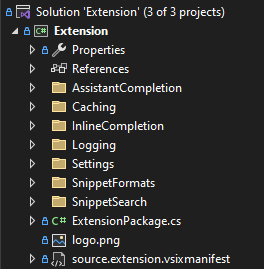
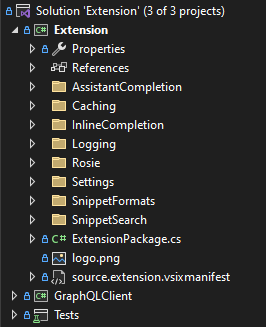
Add developer documentation for the rules caching, text tagging and lightbulb actions. Update project structure docs.

Changed region(s): [[0.0, 0.0, 0.8788, 1.0], [0.0303, 0.9517, 0.0606, 0.9814], [0.0303, 0.8922, 0.0606, 0.9219]]

diff --git a/DEVELOPMENT.md b/DEVELOPMENT.md
@@ -56,6 +56,7 @@ Visual Studio Extensions still need to target full .NET 4.8 Framework as Visual 
 * `Caching` - everything related to Snippet caching
 * `InlineCompletion` - support for inline snippet completion
 * `Logging` - Helper classes for Rollbar logging
+* `Rosie` - Static code analysis and its lightbulb actions
 * `Settings` - Handling current VS setting including the Codiga settings dialog
 * `SnippetFormats` - The different snippet models and the parsing
 * `SnippetSearch` - The menu entry and the tool window for the snippet search
@@ -99,7 +100,7 @@ During the expansion session, we use [`IOleCommandTarget`](https://learn.microso
 For a detailed explanation on the async completion API, there is a great GitHub issue at [microsoft/vs-editor-api#Async Completion API discussion](https://github.com/microsoft/vs-editor-api/issues/9).
 
 
- ## Inline completion
+## Inline completion
 The inline completion is triggered by starting a line comment on a new line.
 ### Triggering
 To be able to trigger the inline completion we make use of another `IOleCommandTarget` in [`InlineCompletion/InlineCompletionClient.cs`](src/Extension/InlineCompletion/InlineCompletionClient.cs). Where we check if a session should be started based on the typed text of the current line.
@@ -124,6 +125,106 @@ To be able to bring up the tool window via the menu, two parts are needed:
 1. Define the menu item command in a [VS command table](https://learn.microsoft.com/en-us/visualstudio/extensibility/internals/visual-studio-command-table-dot-vsct-files?view=vs-2022) ([`SnippetSearchPackage.vsct`](src/Extension/SnippetSearch/SnippetSearchPackage.vsct))
 2. Implement the command that gets fired when clicking the menu item (done in [`SearchWindowMenuCommand.cs`](/src/Extension/SnippetSearch/SearchWindowMenuCommand.cs))
 
+## Rosie code analysis
+
+Rosie is the static code analysis tool and service of Codiga. Its implementation requirements are available
+at [Implementing an IDE plugin for analyzing custom rules](https://doc.codiga.io/docs/rosie/ide-specification/).
+
+### Rules cache
+
+In order to perform code analysis, users must have a `codiga.yml` file in their Solution's root directory,
+with at least one valid ruleset name. If there is no ruleset name, or no valid ruleset name defined, then code analysis
+will not be performed.
+
+[`CodigaConfigFileUtil`]() is responsible for finding this config file in the Solution root, and for parsing this config file into a
+[`CodigaCodeAnalysisConfig`]() containing the list of ruleset names.
+
+Here comes in [`RosieRulesCache`]() which provides a periodic background thread for polling the contents of this config file,
+and looking for rule changes on Codiga Hub, as well as the caches the received rules per language.
+
+The rules are retrieved via [`RosieClient`](), and this is where `RosieRulesCache` is initialized before sending the first
+request to the Rosie server. This way, it is initialized only when code analysis is actually needed.
+
+For response/request (de)serialization, you can find the model classes in the `Extension.Rosie.Model` namespace.
+
+### Tagging
+
+#### Tagging in general in Visual Studio extensions
+
+Tagging and lightbulb related classes are in the `Extension.Rosie.Annotation` namespace.
+
+Tagging text in Visual Studio extensions means that you can associate information and data to specified spans/ranges of text in an editor.
+This information can be user-visible or not, can hold arbitrary information or can provide error highlighting.
+
+To get a proper understanding of tagging, it is necessary to know a bit about the following editor related classes:
+
+| Class                                                                                                                              | Functionality                                                                                                                                                              |
+|------------------------------------------------------------------------------------------------------------------------------------|----------------------------------------------------------------------------------------------------------------------------------------------------------------------------|
+| [`ITextView`](https://learn.microsoft.com/en-us/dotnet/api/microsoft.visualstudio.text.editor.itextview?view=visualstudiosdk-2022) | It is a higher level view of a document being edited. This view may be associated with the editor itself, small code peek windows, or color highlighting on the scrollbar. |
+| [`ITextBuffer`](https://learn.microsoft.com/en-us/dotnet/api/microsoft.visualstudio.text.itextbuffer?view=visualstudiosdk-2022)    | A lower level view of a document via which you can also perform certain types of edits on the document. An `ITextView` instance holds a reference to an `ITextBuffer`.     |
+
+The tagging functionality is provided by the VS platform via the following set of classes:
+
+| Class                 | Functionality                                                                                                                                                                                                                                                           |
+|-----------------------|-------------------------------------------------------------------------------------------------------------------------------------------------------------------------------------------------------------------------------------------------------------------------|
+| `ITag`                | A type of marker to provide arbitrary information for a span of text.                                                                                                                                                                                                   |
+| `IErrorTag`           | An implementation of `ITag` that provides so-called squiggles for a span of text.<br/>You can configure the type of the squiggle, which can be a custom type defined by the extension developer, and the tooltip to show on mouse-hover of the associated span of text. | 
+| `ITagger`             | Provides the logic based on which `ITag` markers are created and associated with a span of text.                                                                                                                                                                        |
+| `IViewTaggerProvider` | Provides `ITagger` instances for an `ITextView`-`ITextBuffer` pair.                                                                                                                                                                                                     |
+| `ITagAggregator`      | Aggregates the list of tags of the specified `ITag` type from an editor.                                                                                                                                                                                                |
+
+**External resources:**
+- MSDN: [Highlighting text](https://learn.microsoft.com/en-us/visualstudio/extensibility/walkthrough-highlighting-text?view=vs-2022&tabs=csharp)
+- Michael's Coding Spot: [Highlighting code in Editor](https://michaelscodingspot.com/visual-studio-2017-extension-development-tutorial-highlight-code-in-editor/)
+- Stackoverflow: [VSIX: IErrorTag tooltip content not displaying](https://stackoverflow.com/questions/64458987/vsix-ierrortag-tooltip-content-not-displaying/64497016#64497016)
+- MSDN forum: [How to get the ErrorTag ToolTipContent to work...](https://social.msdn.microsoft.com/Forums/sqlserver/en-US/157b3f6d-eadd-4693-b8f2-458f837b4394/mef-errortag-how-to-get-the-errortag-tooltipcontent-to-work-in-vs2010-extensibility-component?forum=vsx)
+
+#### Tagging in the Codiga extension
+
+The tagging logic is separated into two branches of classes to properly be able to provide Rosie violation and error squiggles related
+information. Their functionality is detailed in their code documentation.
+
+| Classification        | Rosie violations                                              | Squiggles                                                                       |
+|-----------------------|---------------------------------------------------------------|---------------------------------------------------------------------------------|
+|                       | Stores information about the violation returned from Rosie.   | Stores the color definition and tooltip of the violation to render it to users. |
+| `ITag`/`IErrorTag`    | [`RosieViolationTag`]()                                       | [`RosieViolationSquiggleTag`]()                                                 |
+| `ITagger`             | [`RosieViolationTagger`]()                                    | [`RosieViolationSquiggleTagger`]()                                              |
+| `IViewTaggerProvider` | [`RosieViolationTaggerProvider`]()                            | [`RosieViolationSquiggleTaggerProvider`]()                                      |
+
+#### Tagging flow on file open
+
+When a user opens a file, or a file is already open when a Solution is being opened, the following flow of actions are performed
+to have tagging in the editor, including the extension initialization steps:
+
+![Tagging flow initials](images\tagging-flow-initial.png)
+
+#### Tagging flow during document editing
+
+When a user makes a modification in a file (regardless of the file also being saved), the following event handling chain is performed,
+so that every affected component is notified that they should call an update on tagging and suggested actions:
+
+![Tagging flow during editing](images\tagging-flow-during-editing.png)
+
+The last step will trigger a call on `RosieViolationSquiggleTagger.GetTags()` and will perform the same tag generation and collection steps as on the flow diagram above.
+
+### Lightbulb actions
+
+Lightbulb actions are actions that are provided in a context of texts or language elements.
+They are available and created when there is at least one violation (a `RosieViolationTag`) available
+for a span of text in the editor. Lightbulb actions are provided by [`RosieHighlightActionsSourceProvider`]() and [`RosieHighlightActionsSource`]().
+
+MSDN documentation: [Displaying lightbulb suggestions](https://learn.microsoft.com/en-us/visualstudio/extensibility/walkthrough-displaying-light-bulb-suggestions?view=vs-2022)
+
+There are three lightbulb actions (quick fixes) available for each violation:
+
+| Action                 | Behaviour                                                                                                            | Implementation classes                     | Availability                                                          |
+|------------------------|----------------------------------------------------------------------------------------------------------------------|--------------------------------------------|-----------------------------------------------------------------------|
+| **Apply fix**          | It applies the fix, a series of code edits.                                                                          | [`ApplyRosieFixSuggestedAction`]()         | Available only when the violation returned from Rosie contains a fix. |
+| **Disable analysis**   | It adds the `codiga-disable` comment above the violation's line, thus tells Rosie to disable analysis for that line. | [`DisableRosieAnalysisSuggestedAction`]()  | Always available.                                                     |
+| **Open on Codiga Hub** | It opens the rule's page on Codiga Hub in a web browser.                                                             | [`OpenOnCodigaHubSuggestedAction`]()       | Always available.                                                     |
+
+<br>
+
 ## Settings
 The settings dialog is also divided into the settings model and the options dialog that shows up in the VS settings.
 The definition and registration of the Codiga settings are done in [`Settings/ExtensionOptions.cs`](src/Extension/Settings/ExtensionOptions.cs). These settings are stored in the Windows registry and can be accessed via a singleton instance `CodigaOptions.Instance`. The UI for the settings is defined in [`OptionsPage.xaml`](src/Extension/Settings/OptionsPage.xaml). For the simple settings dialog, the minimal logic is done in the [code-behind](https://learn.microsoft.com/en-us/dotnet/desktop/wpf/advanced/code-behind-and-xaml-in-wpf?view=netframeworkdesktop-4.8) file [`OptionsPage.xaml.cs`](src/Extension/Settings/OptionsPage.xaml.cs).
@@ -131,19 +232,20 @@ The definition and registration of the Codiga settings are done in [`Settings/Ex
 # Frameworks/Packages
 List of used third-party frameworks and packages:
 
-| Library | Purpose|
-|-|-|
-| [NUnit](https://nunit.org/) | Unit test framework |
-| [Moq](https://github.com/Moq) | For mocking in unit tests |
-| [GraphQL .NET](https://github.com/graphql-dotnet/graphql-dotnet) | For consuming the Codiga API | 
+| Library                                                                                            | Purpose                                   |
+|----------------------------------------------------------------------------------------------------|-------------------------------------------|
+| [NUnit](https://nunit.org/)                                                                        | Unit test framework                       |
+| [Moq](https://github.com/Moq)                                                                      | For mocking in unit tests                 |
+| [GraphQL .NET](https://github.com/graphql-dotnet/graphql-dotnet)                                   | For consuming the Codiga API              | 
 | [Visual Studio Community Toolkit](https://github.com/VsixCommunity/Community.VisualStudio.Toolkit) | For easier development against the VS SDK |      
 
 # Testing
 Some general overview of features and edge cases beyond the defined extension main features that should be tested with Visual Studio:
-| Scenario | Expected|
-|-|-|
-| Drag a file tab out of the main VS window and create a new one | All extension features should work in both windows |
-| Changing the color theme under Tools -> Theme | The search window should adapt to the new theme. |
+
+| Scenario                                                                             | Expected                                                             |
+|--------------------------------------------------------------------------------------|----------------------------------------------------------------------|
+| Drag a file tab out of the main VS window and create a new one                       | All extension features should work in both windows                   |
+| Changing the color theme under Tools -> Theme                                        | The search window should adapt to the new theme.                     |
 | Changing the font settings under Tools -> Options -> Environment -> Fonts and Colors | Should also affect the inline completion and snippet search preview. |
 
 # Links/Help
